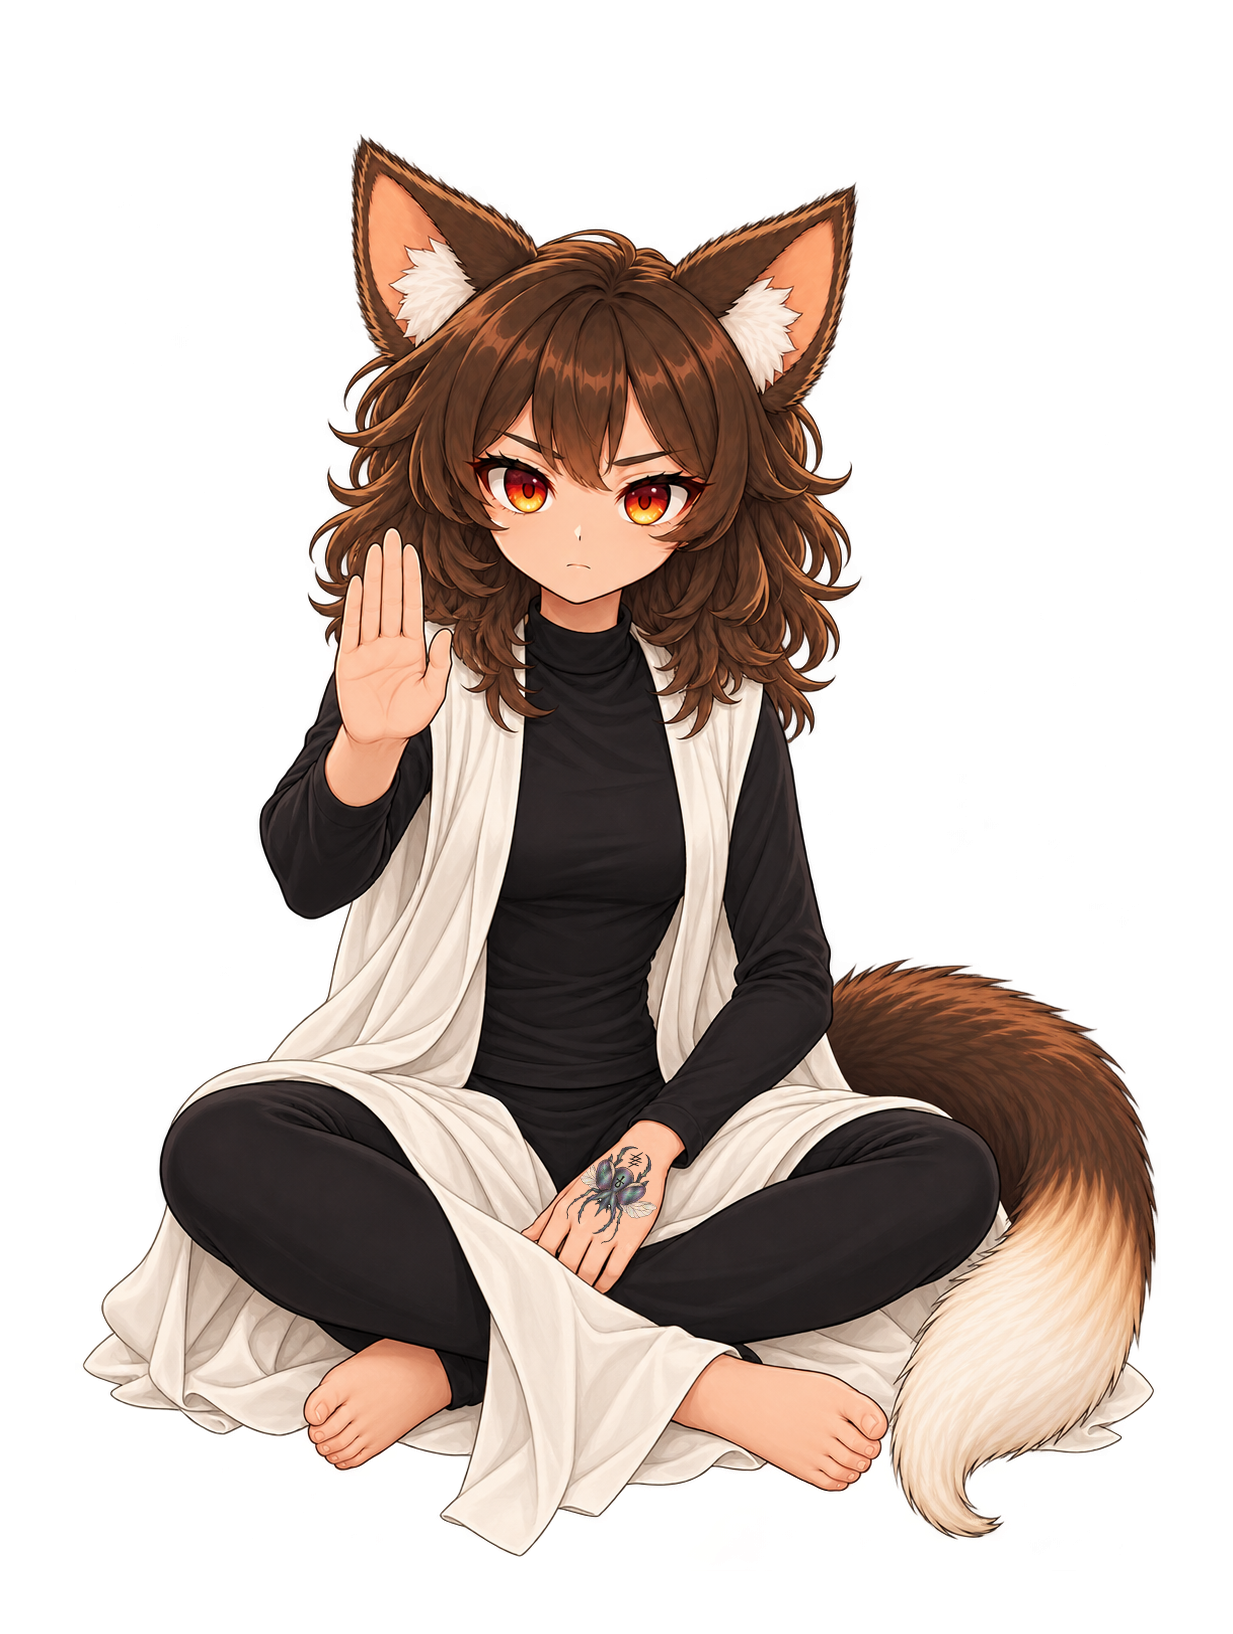
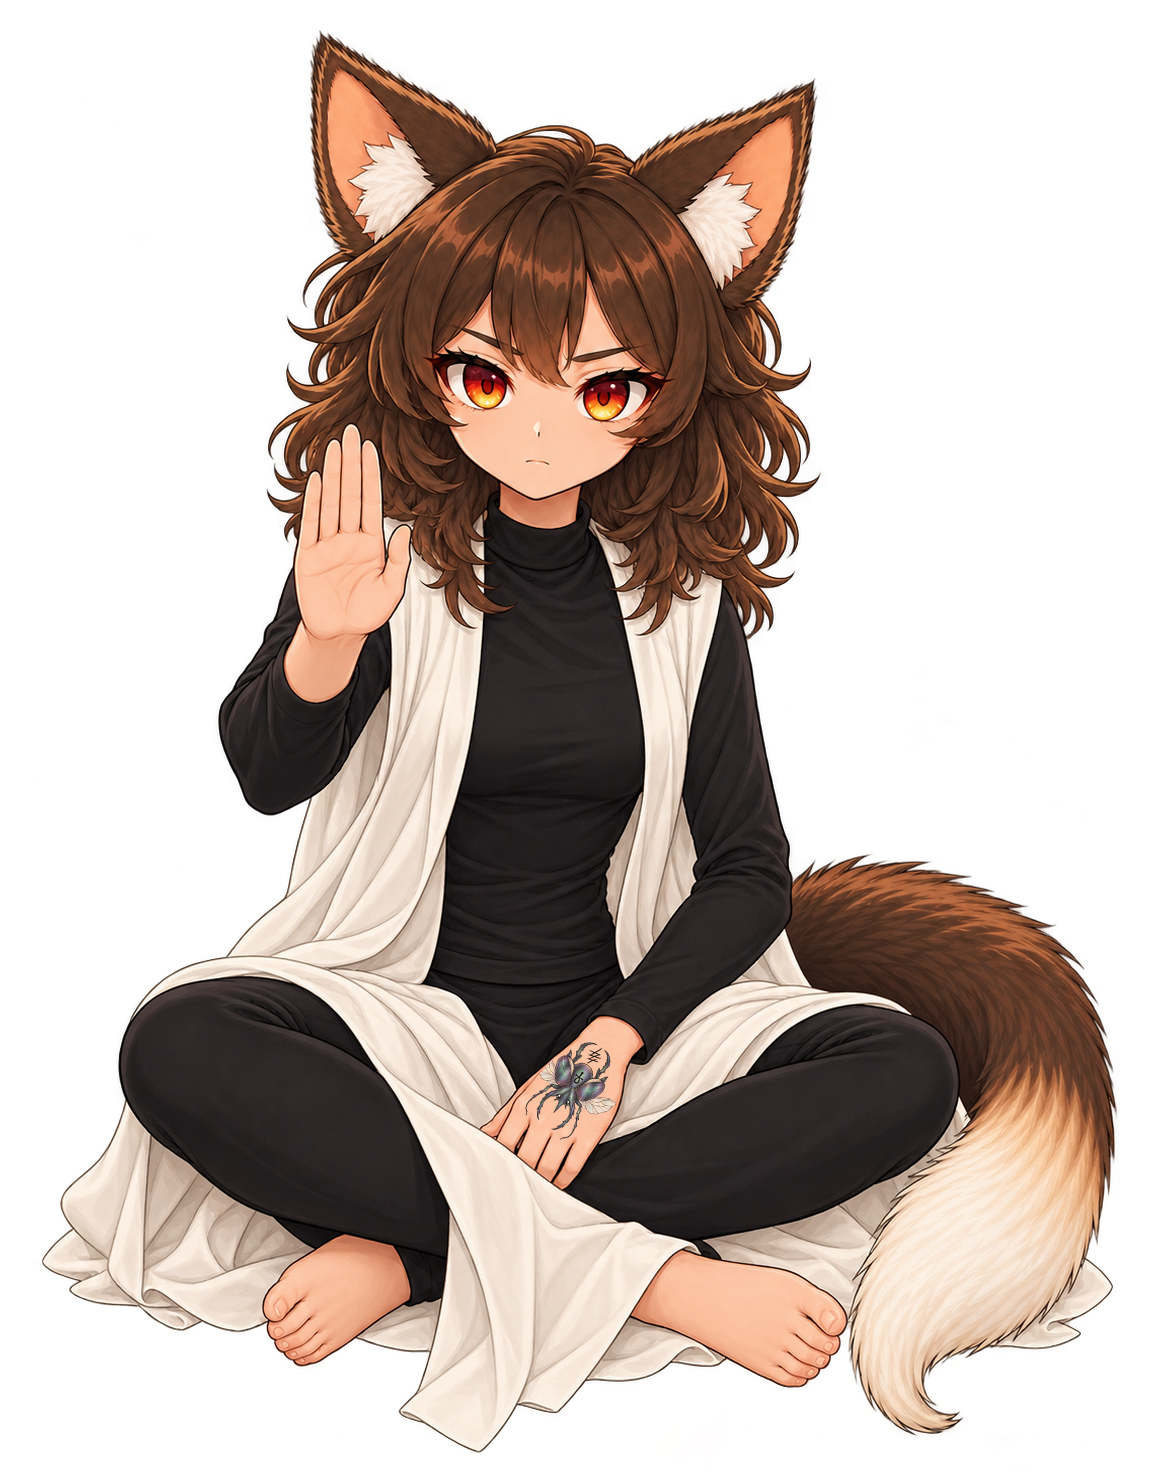
feat: animate Samvit listener and abhaya from corrected frames

Changed region(s): [[0.0312, 0.0, 0.9671, 0.9926]]

diff --git a/src/app/pages/samvit/samvit-presence.ts b/src/app/pages/samvit/samvit-presence.ts
@@ -25,6 +25,7 @@ const SAMVIT_PRESENCES: Readonly<Record<SamvitPresenceId, SamvitPresence>> = {
   curious: {
     id: 'curious',
     imageSrc: '/images/samvit/presences/samvit-curious-still.png',
+    animatedImageSrc: '/images/samvit/presences/samvit-curious-blink.webp',
     imageWidth: 1122,
     imageHeight: 1402,
     labelKey: 'samvit.presences.curious.label',
@@ -44,8 +45,9 @@ const SAMVIT_PRESENCES: Readonly<Record<SamvitPresenceId, SamvitPresence>> = {
   suspicious: {
     id: 'suspicious',
     imageSrc: '/images/samvit/presences/samvit-abhaya-still.png',
-    imageWidth: 1233,
-    imageHeight: 1634,
+    animatedImageSrc: '/images/samvit/presences/samvit-abhaya-blink.webp',
+    imageWidth: 1154,
+    imageHeight: 1483,
     labelKey: 'samvit.presences.suspicious.label',
     altKey: 'samvit.presences.suspicious.alt',
     messageKeys: createMessageKeys('suspicious'),

diff --git a/src/app/pages/samvit/samvit.spec.ts b/src/app/pages/samvit/samvit.spec.ts
@@ -204,9 +204,10 @@ describe('Samvit', () => {
   });
 
   it.each([
-    [0.45, 'samvit-curious-still.png', 1122, 1402, null],
+    [0.2, 'samvit-sesha-sleeping-still.webp', 1448, 1086, null],
+    [0.45, 'samvit-curious-still.png', 1122, 1402, 'samvit-curious-blink.webp'],
     [0.6, 'samvit-contemplative-still.png', 1024, 1536, 'samvit-contemplative-blink.webp'],
-    [0.7, 'samvit-abhaya-still.png', 1233, 1634, null],
+    [0.7, 'samvit-abhaya-still.png', 1154, 1483, 'samvit-abhaya-blink.webp'],
     [0.8, 'samvit-dot-eye-still.png', 1024, 1536, 'samvit-dot-eye-ear-twitch.webp'],
     [0.95, 'samvit-with-bhu-still.png', 1122, 1402, 'samvit-with-bhu-blink.webp'],
   ])(

diff --git a/docs/samvit-motion-spike.md b/docs/samvit-motion-spike.md
@@ -358,10 +358,10 @@ não usa a pausa de `--pause-ms`. Sem essa opção, a montagem conserva a pausa 
 anteriores. Quatro quadros continuam usando fechamento progressivo e retorno em ordem inversa.
 Não são mantidas cópias adicionais dos PNGs intermediários no diretório público.
 
-### Prompts propostos — novos quadros de abhaya e ouvinte, aguardando aprovação
+### Histórico — proposta dos quadros de abhaya e ouvinte
 
-As tentativas menores de abhaya e os olhos deformados da ouvinte foram rejeitados. Nenhuma
-nova geração foi executada nesta entrega. Cada quadro deverá usar diretamente o respectivo
+As tentativas menores de abhaya e os olhos deformados da ouvinte foram rejeitados. Na entrega
+anterior, esta proposta aguardava aprovação da autora. Cada quadro deveria usar diretamente o respectivo
 original, sem reaproveitar uma tentativa reduzida nem ampliar artificialmente os resultados.
 As dimensões são exigências para conferência; o prompt sozinho não garante que o gerador
 as cumpra. Um resultado menor ou desalinhado não será aplicado à animação.
@@ -426,3 +426,71 @@ Executar apenas o estado do quadro solicitado ao final deste prompt.
 
 O original será o quadro 01 de cada pose. A reabertura dos olhos e o retorno da orelha
 reutilizarão os desenhos em ordem inversa, somente depois da revisão da autora.
+
+## Abhaya e ouvinte — sequências corrigidas integradas
+
+Após revisar os testes, a autora forneceu sete PNGs prontos: o novo original de abhaya e seus
+três quadros adicionais, mais os três quadros adicionais da ouvinte. A ouvinte usa como quadro 01
+o PNG original já presente na aplicação.
+
+Todos os desenhos da abhaya têm 1154 × 1483 px; os da ouvinte têm 1122 × 1402 px. A comparação
+confirma que corpo e cauda permanecem iguais aos respectivos originais. As mudanças de alfa
+presentes nos PNGs corrigidos são preservadas na montagem, incluindo o movimento das orelhas.
+Não são usadas as tentativas com canvas reduzido ou com alterações dispersas pelo corpo.
+
+O arquivo `samvit-abhaya-still.png` foi substituído byte a byte por `samvit-abhaya-mudra.png`.
+As dimensões declaradas no componente foram atualizadas para 1154 × 1483 px, mantendo o
+enquadramento fornecido pela autora. O original anterior não é mantido como outra imagem pública.
+A base estática da ouvinte permanece igual a `samvit-ouvinte(1).png`.
+
+| Sequência  | Arquivo de origem          | SHA-256                                                            |
+| ---------- | -------------------------- | ------------------------------------------------------------------ |
[8 lines of base64/hex data omitted]
+
+Os novos arquivos são `samvit-abhaya-blink.webp` e `samvit-curious-blink.webp`. Ambos usam os
+quatro desenhos completos na ordem 01 → 02 → 03 → 04 → 03 → 02, com durações de 4000, 60,
+60, 100, 60 e 60 ms. Cada ciclo dura 4340 ms e se repete sem limite, como a pensativa e Bhu.
+O codificador existente confere todos os valores de alfa e RGB visíveis e os tempos após decodificar
+o WebP. A montagem conserva as entradas, sem redimensionar, repintar, interpolar ou limpar as bordas.
+
+| Animação                    | Bytes     | SHA-256                                                            |
+| --------------------------- | --------- | ------------------------------------------------------------------ |
[2 lines of base64/hex data omitted]
+
+Com isso, cinco presenças usam animação: abhaya, ouvinte, pensativa, dot-eye e Bhu. Śeṣa mantém
+seu arquivo estático e sua prioridade de 40% no sorteio. As outras probabilidades, frases e a seleção
+única por entrada permanecem iguais. Movimento reduzido continua usando o original estático da
+pose selecionada. Os testes conferem a fonte animada, essa condição de acessibilidade, as dimensões
+atualizadas e o uso estático de Śeṣa. Os PNGs intermediários corrigidos não são duplicados em `public/`.
+
+`npm run check` passou com 408 testes Angular e 64 testes do servidor, cobertura mínima,
+formatação, código didático sincronizado, duplicação de 1,23% e build de dez rotas prerenderizadas.
+As duas animações e o novo PNG estático na saída do build foram comparados byte a byte com os
+arquivos validados. Não foi realizada revisão visual em navegador nesta execução; a cadência e
+a aparência no dispositivo da autora continuam sendo sua conferência final.
+
+Para repetir a montagem com os arquivos corrigidos em uma pasta local:
+
+```powershell
+python scripts/encode-presence-animation.py `
+  --frames public/images/samvit/presences/samvit-abhaya-still.png `
+    CAMINHO/samvit-abhaya-mudra2.png `
+    CAMINHO/samvit-abhaya-mudra3.png `
+    CAMINHO/samvit-abhaya-mudra4.png `
+  --output public/images/samvit/presences/samvit-abhaya-blink.webp
+
+python scripts/encode-presence-animation.py `
+  --frames public/images/samvit/presences/samvit-curious-still.png `
+    CAMINHO/samvit-ouvinte2.png `
+    CAMINHO/samvit-ouvinte3.png `
+    CAMINHO/samvit-ouvinte4.png `
+  --output public/images/samvit/presences/samvit-curious-blink.webp
+```
